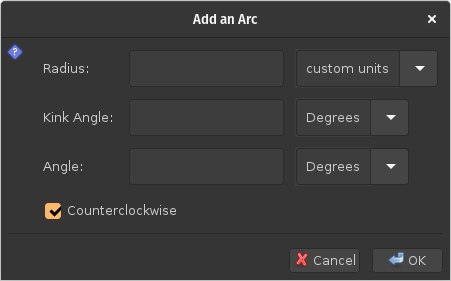
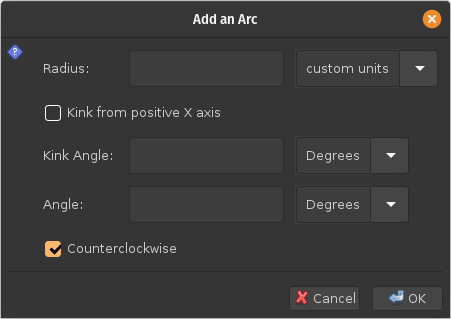
Improve ArcPane's handling of kink angles

diff --git a/docs/manual/manual.dm.html b/docs/manual/manual.dm.html
@@ -1205,44 +1205,51 @@ displayed in textual form. This menu contains the following items:
 	the desired value. This option always produces a straight-line
 	segment.
       <LI><A NAME="AddArc"></A><B><CODE>Add Arc</CODE></B>. This menu
-	item will open a dialog box that will ask for a radius, the
-	kink angle or tangent angle, and the angle the arc sustends,
-	and angle direction (clockwise or counterclockwise):
+	item will open a dialog box that will ask for a radius,
+	whether or not the kink angle should be measured from the
+	tangent to the curve or from the X axis, the kink angle (or
+	tangent angle for the first point on the curve), the angle
+	the arc subtends, and the angle direction (clockwise or
+	counterclockwise):
 	<BR><BR>
 	<CENTER><IMG src="AddArc.png" WIDTH="360"></CENTER>
 	<BR>
-	The <B><CODE>Radius</CODE></B> field provides the radius of
-	the arc in GCS units.  The <CODE>Kink Angle</CODE> is the
-	angle in the couterclockwise direction relative to the tangent
-	of the existing portion of the path, wheraas the <CODE>Tangent
-	Angle</CODE> is the angle (again in the counterclockwise
-	direction) a tangent vector at the start of the arc, in the
-	direction of the arc, makes with the X axis when the arc is at
-	the start of a path. When left blank, these fields default to
-	0.  The <B><CODE>Angle</CODE></B> field provides the angular
-	extent of the arc, with positive value indicating that the
-	arc&#39;s tangent at the current point is parallel to the
-	tangent vector at the current point and a negative value
-	indicating that the arc&#39;s tangent at the current point is
-	anti-parallel to the tangent vector at the current point.
-	The <B><CODE>Counterclockwise</CODE></B> checkbox indicates
-	whether the arc, when the angle is positive, turns clockwise
-	or counterclockwise in graph coordinate space
-	(counterclockwise is defined as turning from the positive X
-	axis towards the positive Y axis). This checkbox determines
-	the position of the circle containing the arc regardless of
-	the sign of the angle. Finally, a pull-down menu indicates the
-	accuracy of the arc.  A circular arc is approximated by a
-	sequence of cubic B&eacute;zier curves and the arc accuracy
-	sets the maximum angular extent of each.  The arc accuracy can
-	be set in advance by using the
-	<A HREF="#SetArcAngleLevel">Set Arc-Angle Level</A> menu item.
-	When the level is set to 1 (the default is 2), the maximum
-	angular extent for a cubic B&eacute;zier curve segment is 90
-	degrees. Increasing the arc level by 1 halves this angle.  For
-	the case where an arc occurs at the start of a path, a dialog
-	box will appear asking for an initial angle. This initial
-	angle is measure counterclockwise from the positive X axis.
+	This dialog box's controls are as follows.
+	<UL>
+	  <LI> The <B><CODE>Radius</CODE></B> field provides the radius of
+	    the arc in GCS units.
+	  <LI> A <CODE>Kink</CODE> checkbox appears if the arc is not
+	    at the start of a path and indicates if the kink angle
+	    (described below) is relative to the tangent of the path
+	    or the positive X axis. When present, the default is for
+	    the checkbox to be unchecked.
+	  <LI> The <CODE>Kink Angle</CODE> field provides the angle in the
+	    counterclockwise direction relative to either the tangent
+	    of the existing portion of the path or the positive X axis
+	    as determined by the preceding checkbox. This will be
+	    labeled as the tangent angle from the X axis when the path
+	    contains a single point.  These angles are positive in the
+	    counterclockwise direction.When left blank, this field
+	    default to 0.
+	  <LI> The <B><CODE>Angle</CODE></B> field provides the angular
+	    extent of the arc, with positive value indicating that the
+	    arc&#39;s tangent at the current point is parallel to the
+	    tangent vector at the current point and a negative value
+	    indicating that the arc&#39;s tangent at the current point is
+	    anti-parallel to the tangent vector at the current point.
+	  <LI> The <B><CODE>Counterclockwise</CODE></B> checkbox indicates
+	    whether the arc, when the angle is positive, turns clockwise
+	    or counterclockwise in graph coordinate space
+	    (counterclockwise is defined as turning from the positive X
+	    axis towards the positive Y axis). This checkbox determines
+	    the position of the circle containing the arc regardless of
+	    the sign of the angle. The arc accuracy can
+	    be set in advance by using the
+	    <A HREF="#SetArcAngleLevel">Set Arc-Angle Level</A> menu item.
+	    When the level is set to 1 (the default is 2), the maximum
+	    angular extent for a cubic B&eacute;zier curve segment is 90
+	    degrees. Increasing the arc level by 1 halves this angle.
+	</UL>
       <LI><B><CODE>Add points by running a command or opening a file</CODE></B>.
 	This menu item opens a dialog box for obtaining points along a path
 	by running a command or reading from a file.  In either case, the

diff --git a/manual/manual.html b/manual/manual.html
@@ -1205,44 +1205,51 @@ displayed in textual form. This menu contains the following items:
 	the desired value. This option always produces a straight-line
 	segment.
       <LI><A NAME="AddArc"></A><B><CODE>Add Arc</CODE></B>. This menu
-	item will open a dialog box that will ask for a radius, the
-	kink angle or tangent angle, and the angle the arc sustends,
-	and angle direction (clockwise or counterclockwise):
+	item will open a dialog box that will ask for a radius,
+	whether or not the kink angle should be measured from the
+	tangent to the curve or from the X axis, the kink angle (or
+	tangent angle for the first point on the curve), the angle
+	the arc subtends, and the angle direction (clockwise or
+	counterclockwise):
 	<BR><BR>
 	<CENTER><IMG src="AddArc.png" WIDTH="360"></CENTER>
 	<BR>
-	The <B><CODE>Radius</CODE></B> field provides the radius of
-	the arc in GCS units.  The <CODE>Kink Angle</CODE> is the
-	angle in the couterclockwise direction relative to the tangent
-	of the existing portion of the path, wheraas the <CODE>Tangent
-	Angle</CODE> is the angle (again in the counterclockwise
-	direction) a tangent vector at the start of the arc, in the
-	direction of the arc, makes with the X axis when the arc is at
-	the start of a path. When left blank, these fields default to
-	0.  The <B><CODE>Angle</CODE></B> field provides the angular
-	extent of the arc, with positive value indicating that the
-	arc&#39;s tangent at the current point is parallel to the
-	tangent vector at the current point and a negative value
-	indicating that the arc&#39;s tangent at the current point is
-	anti-parallel to the tangent vector at the current point.
-	The <B><CODE>Counterclockwise</CODE></B> checkbox indicates
-	whether the arc, when the angle is positive, turns clockwise
-	or counterclockwise in graph coordinate space
-	(counterclockwise is defined as turning from the positive X
-	axis towards the positive Y axis). This checkbox determines
-	the position of the circle containing the arc regardless of
-	the sign of the angle. Finally, a pull-down menu indicates the
-	accuracy of the arc.  A circular arc is approximated by a
-	sequence of cubic B&eacute;zier curves and the arc accuracy
-	sets the maximum angular extent of each.  The arc accuracy can
-	be set in advance by using the
-	<A HREF="#SetArcAngleLevel">Set Arc-Angle Level</A> menu item.
-	When the level is set to 1 (the default is 2), the maximum
-	angular extent for a cubic B&eacute;zier curve segment is 90
-	degrees. Increasing the arc level by 1 halves this angle.  For
-	the case where an arc occurs at the start of a path, a dialog
-	box will appear asking for an initial angle. This initial
-	angle is measure counterclockwise from the positive X axis.
+	This dialog box's controls are as follows.
+	<UL>
+	  <LI> The <B><CODE>Radius</CODE></B> field provides the radius of
+	    the arc in GCS units.
+	  <LI> A <CODE>Kink</CODE> checkbox appears if the arc is not
+	    at the start of a path and indicates if the kink angle
+	    (described below) is relative to the tangent of the path
+	    or the positive X axis. When present, the default is for
+	    the checkbox to be unchecked.
+	  <LI> The <CODE>Kink Angle</CODE> field provides the angle in the
+	    counterclockwise direction relative to either the tangent
+	    of the existing portion of the path or the positive X axis
+	    as determined by the preceding checkbox. This will be
+	    labeled as the tangent angle from the X axis when the path
+	    contains a single point.  These angles are positive in the
+	    counterclockwise direction.When left blank, this field
+	    default to 0.
+	  <LI> The <B><CODE>Angle</CODE></B> field provides the angular
+	    extent of the arc, with positive value indicating that the
+	    arc&#39;s tangent at the current point is parallel to the
+	    tangent vector at the current point and a negative value
+	    indicating that the arc&#39;s tangent at the current point is
+	    anti-parallel to the tangent vector at the current point.
+	  <LI> The <B><CODE>Counterclockwise</CODE></B> checkbox indicates
+	    whether the arc, when the angle is positive, turns clockwise
+	    or counterclockwise in graph coordinate space
+	    (counterclockwise is defined as turning from the positive X
+	    axis towards the positive Y axis). This checkbox determines
+	    the position of the circle containing the arc regardless of
+	    the sign of the angle. The arc accuracy can
+	    be set in advance by using the
+	    <A HREF="#SetArcAngleLevel">Set Arc-Angle Level</A> menu item.
+	    When the level is set to 1 (the default is 2), the maximum
+	    angular extent for a cubic B&eacute;zier curve segment is 90
+	    degrees. Increasing the arc level by 1 halves this angle.
+	</UL>
       <LI><B><CODE>Add points by running a command or opening a file</CODE></B>.
 	This menu item opens a dialog box for obtaining points along a path
 	by running a command or reading from a file.  In either case, the

diff --git a/src/org.bzdev.epts/org/bzdev/epts/EPTSWindow.java b/src/org.bzdev.epts/org/bzdev/epts/EPTSWindow.java
@@ -1812,6 +1812,8 @@ class ArcPane extends JPanel {
 	cdf.setAllowedChars("09eeEE..,,++--");
 	JLabel ll = new JLabel(localeString("Radius"));
 	JLabel al = new JLabel(localeString("Angle"));
+	JCheckBox acb = canKink? new JCheckBox(localeString("kinkFromXAxis")):
+	    null;
 	JLabel kl = canKink? new JLabel(localeString("KinkAngle")):
 	    new JLabel(localeString("TangentAngle"));
 	JLabel nsl = new JLabel(localeString("NSegs"));
@@ -1906,6 +1908,15 @@ class ArcPane extends JPanel {
 	c.gridwidth = GridBagConstraints.REMAINDER;
 	gridbag.setConstraints(lunits, c);
 	add(lunits);
+
+	if (canKink) {
+	    c.gridwidth = GridBagConstraints.REMAINDER;
+	    gridbag.setConstraints(acb, c);
+	    add(acb);
+	    acb.addActionListener(event -> {
+		    ArcPane.this.canKink = !acb.isSelected();
+		});
+	}
 
 	c.gridwidth = 1;
 	gridbag.setConstraints(kl, c);
@@ -7031,12 +7042,22 @@ public class EPTSWindow {
 			    default:
 				throw new Error("bad case: " + type);
 			    }
-			    System.out.println("canKink = " + canKink);
-			    System.out.println("kinkAngle = "
-					       + apane.getKinkAngle());
+			    double kinkAngle = apane.getKinkAngle();
+			    if (canKink && !apane.canKink) {
+				// The user asked for a kink relative
+				// to the X axis.
+				double[] tarray = new double[2];
+				if (Path2DInfo.getTangent
+				    (segment, Path2DInfo.Location.END,
+				     tarray, 0)) {
+				    double tang = Math.atan2(tarray[1],
+							     tarray[0]);
+				    kinkAngle -= tang;
+				}
+			    }
 			    Path2D arc = canKink?
 				Paths2D.createArc(segment, radius,
-						  apane.getKinkAngle(),
+						  kinkAngle,
 						  ccw, angle,
 						  maxdelta):
 				Paths2D.createArc(segment, radius,
